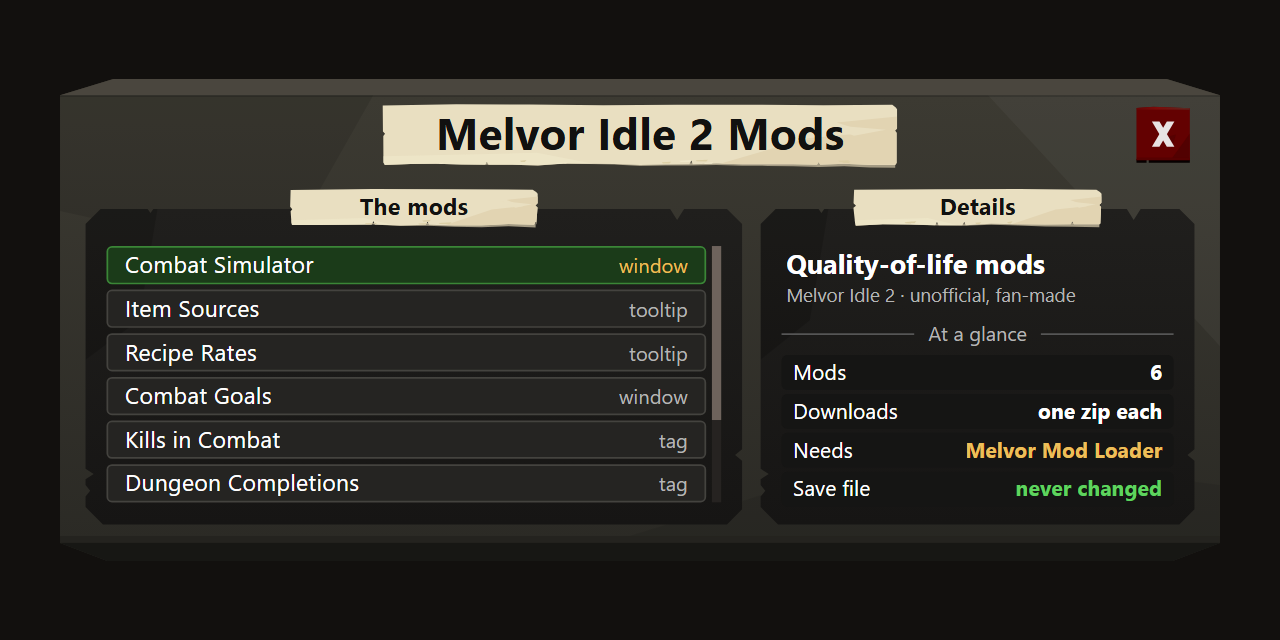
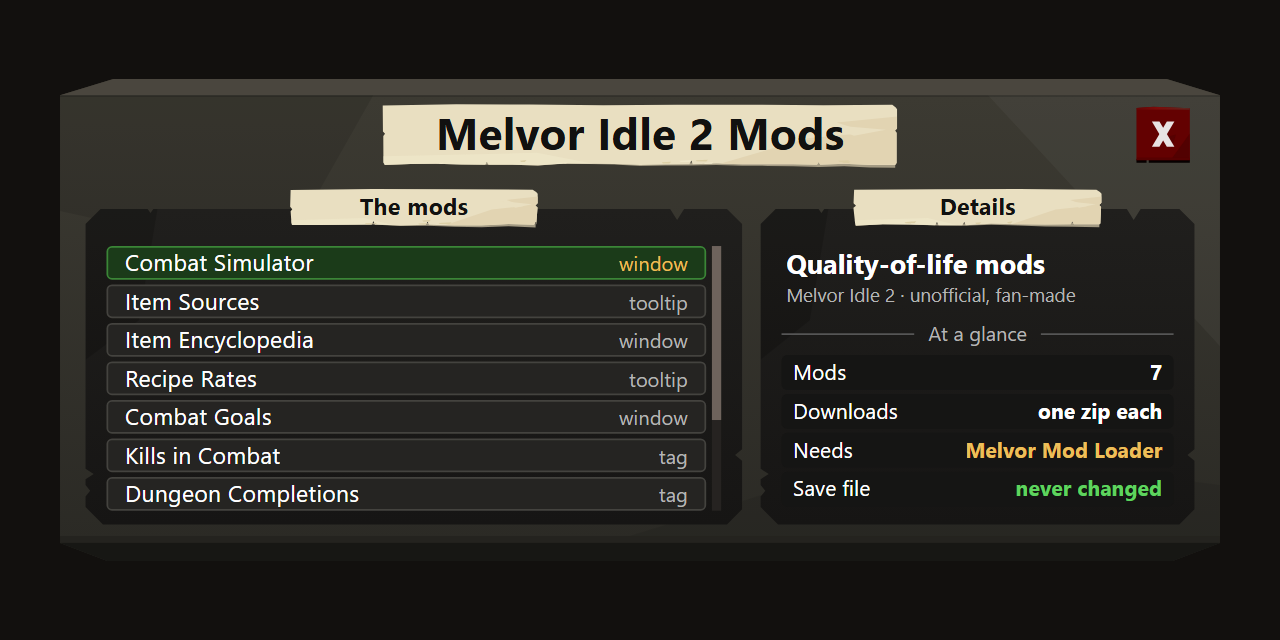
Social preview: seven mods, drawn by tools/nexus-headers.py (#20)
docs/img/social-preview.png lists Item Encyclopedia and says Mods 7, and tools/nexus-headers.py draws it from the README banner. The picture is uploaded by hand under Settings > General > Social preview.

Changed region(s): [[0.0625, 0.375, 0.5625, 0.8125], [0.875, 0.5625, 0.9062, 0.5938]]

diff --git a/tools/nexus-headers.py b/tools/nexus-headers.py
@@ -6,6 +6,10 @@ Writes dist/nexus/headers/<Mod>.png (1300x372, the size Nexus asks for): the mod
 dark panel colour, with the question the mod answers under it. Pack.png, for the page of the zip with all the
 mods, is the banner of the main README.
 
+Also writes docs/img/social-preview.png (1280x640, the size GitHub asks for): the same banner on a plain dark
+ground, the picture shown where a link to the repository is shared. GitHub does not read it from the
+repository: when it has changed, upload it by hand under Settings > General > Social preview.
+
 Nexus writes the mod's name and its counters over the lower 40% of a header, so everything is drawn in the
 upper 60%. The drawing is done by a browser without a window (Edge or Chrome), found in the usual places. The
 picture is asked for through the browser's DevTools protocol: its --screenshot switch stopped writing files
@@ -27,6 +31,9 @@ ROOT = os.path.join(os.path.dirname(os.path.abspath(__file__)), '..')
 ART = os.path.join(ROOT, 'docs', 'img', 'art')
 OUT = os.path.join(ROOT, 'dist', 'nexus', 'headers')
 WIDTH, HEIGHT = 1300, 372
+SOCIAL = os.path.join(ROOT, 'docs', 'img', 'social-preview.png')
+SOCIAL_WIDTH, SOCIAL_HEIGHT = 1280, 640
+SOCIAL_BANNER, SOCIAL_GROUND = 1160, '#12100e'
 
 HEADERS = {
     'CombatSim': ('h-combat-simulator.svg', 'What does an hour of this fight give me, what does it cost, and will I die?'),
@@ -51,17 +58,29 @@ def browser():
     return found
 
 
-def page(name, file, line):
+def art(file, size):
     svg = re.sub(r'<\?xml[^>]*\?>', '', open(os.path.join(ART, file), encoding='utf-8').read())
+    return svg.replace('<svg ', f'<svg style="{size};display:block" ', 1)
+
+
+def page(name, file, line):
     size, top = ('height:208px;width:auto', 12) if name == 'Pack' else ('width:1000px;height:auto', 44)
-    svg = svg.replace('<svg ', f'<svg style="{size};display:block" ', 1)
     text = (f'<div style="margin-top:20px;font:italic 28px Segoe UI,Arial,sans-serif;color:#edbf59;text-align:center">'
             f'{line}</div>') if line else ''
     return ('<!doctype html><meta charset="utf-8">'
             f'<body style="margin:0;width:{WIDTH}px;height:{HEIGHT}px;overflow:hidden;box-sizing:border-box;'
             'background:radial-gradient(ellipse at 50% 35%,#2a2420 0%,#14110f 75%);display:flex;'
             f'flex-direction:column;align-items:center;justify-content:flex-start;padding-top:{top}px">'
-            + svg + text + '</body>')
+            + art(file, size) + text + '</body>')
+
+
+def social_page():
+    # The whole banner in the middle of a plain dark ground. Sites that show the picture cut it to their own
+    # shape, so the banner keeps at least 60 pixels away from every edge.
+    return ('<!doctype html><meta charset="utf-8">'
+            f'<body style="margin:0;width:{SOCIAL_WIDTH}px;height:{SOCIAL_HEIGHT}px;overflow:hidden;'
+            f'background:{SOCIAL_GROUND};display:flex;align-items:center;justify-content:center">'
+            + art('banner.svg', f'width:{SOCIAL_BANNER}px;height:auto') + '</body>')
 
 
 class DevTools:
@@ -117,6 +136,23 @@ class DevTools:
                 return answer.get('result', {})
 
 
+def shoot(tools, html, png, width, height):
+    """Draws one page at the given size and writes the picture."""
+    file = os.path.join(OUT, 'page.html')
+    with open(file, 'w', encoding='utf-8') as f:
+        f.write(html)
+    try:
+        tools.call('Emulation.setDeviceMetricsOverride', width=width, height=height, deviceScaleFactor=1, mobile=False)
+        tools.call('Page.navigate', url='file:///' + os.path.abspath(file).replace('\\', '/'))
+        time.sleep(1.5)
+        shot = tools.call('Page.captureScreenshot', format='png',
+                          clip={'x': 0, 'y': 0, 'width': width, 'height': height, 'scale': 1})
+        with open(png, 'wb') as f:
+            f.write(base64.b64decode(shot['data']))
+    finally:
+        os.remove(file)
+
+
 def main():
     os.makedirs(OUT, exist_ok=True)
     profile = tempfile.mkdtemp(prefix='nexus-headers-')
@@ -135,20 +171,11 @@ def main():
         port = open(port_file).read().split()[0]
         pages = json.load(urllib.request.urlopen(f'http://127.0.0.1:{port}/json/list'))
         tools = DevTools(next(p for p in pages if p['type'] == 'page')['webSocketDebuggerUrl'])
-        tools.call('Emulation.setDeviceMetricsOverride', width=WIDTH, height=HEIGHT, deviceScaleFactor=1, mobile=False)
         for name, (file, line) in HEADERS.items():
-            html = os.path.abspath(os.path.join(OUT, name + '.html'))
-            png = os.path.abspath(os.path.join(OUT, name + '.png'))
-            with open(html, 'w', encoding='utf-8') as f:
-                f.write(page(name, file, line))
-            tools.call('Page.navigate', url='file:///' + html.replace('\\', '/'))
-            time.sleep(1.5)
-            shot = tools.call('Page.captureScreenshot', format='png',
-                              clip={'x': 0, 'y': 0, 'width': WIDTH, 'height': HEIGHT, 'scale': 1})
-            with open(png, 'wb') as f:
-                f.write(base64.b64decode(shot['data']))
-            os.remove(html)
+            shoot(tools, page(name, file, line), os.path.join(OUT, name + '.png'), WIDTH, HEIGHT)
             print(name + '.png')
+        shoot(tools, social_page(), SOCIAL, SOCIAL_WIDTH, SOCIAL_HEIGHT)
+        print('docs/img/social-preview.png')
     finally:
         process.kill()
         process.wait()
